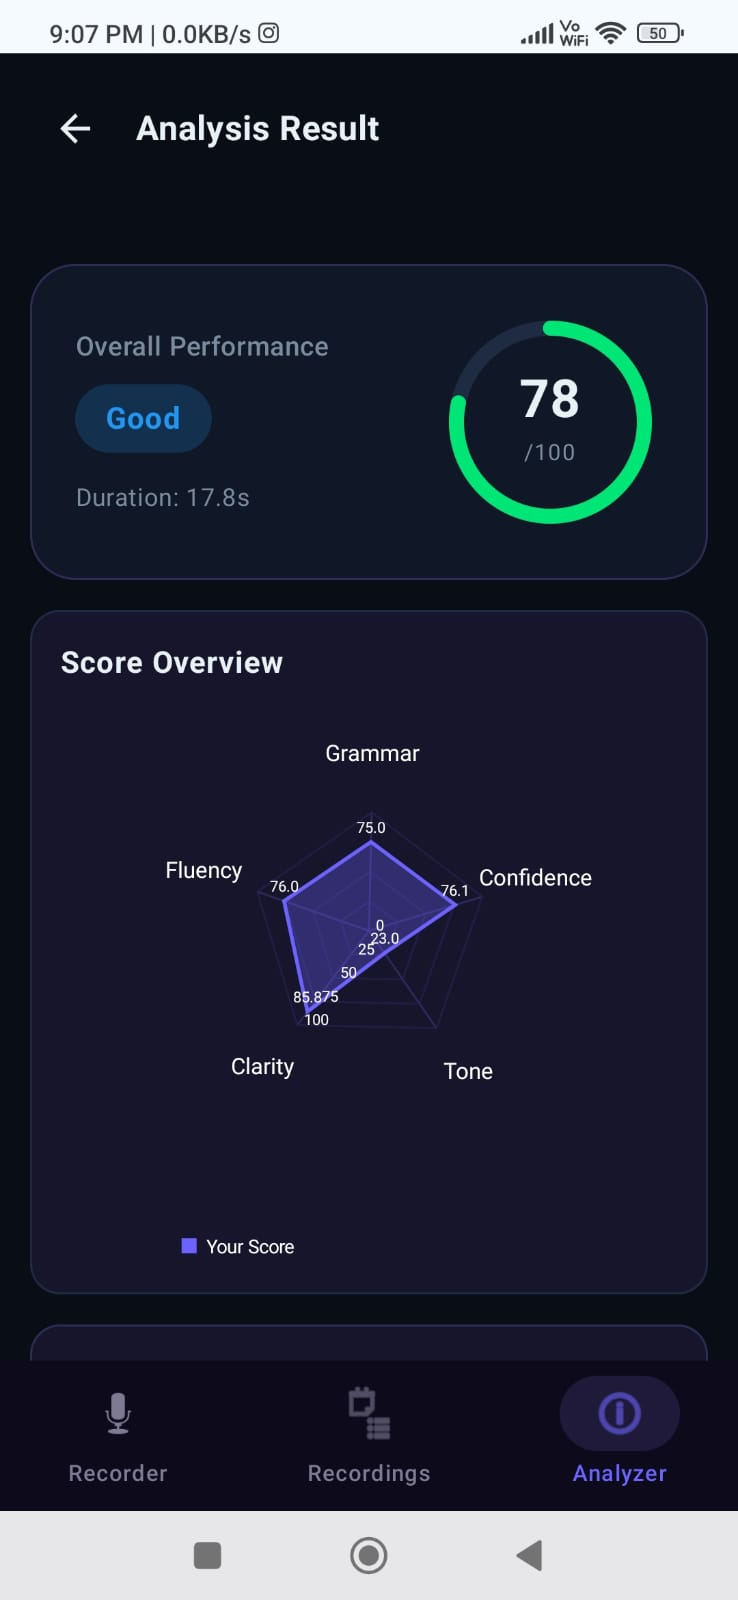
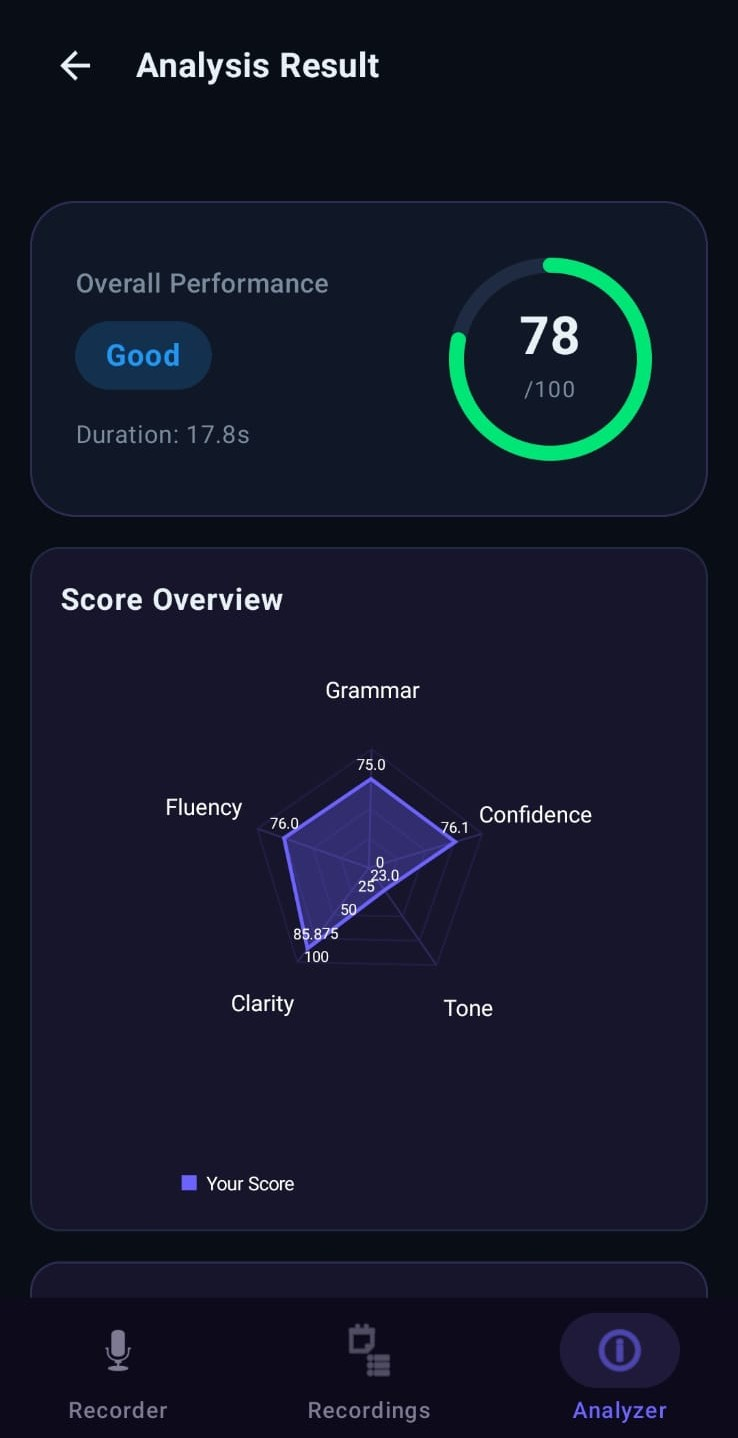
Update screenshots layout

diff --git a/README.md b/README.md
@@ -13,16 +13,16 @@ VoiceAnalyzer is an AI-powered Android application built with **Kotlin** and **J
 - 📝 Automatic speech-to-text transcription
 - 💾 Offline history with Room database
 
-
 ## 📱 Screenshots
 
 <p align="center">
-  <img src="ScreenShot/Recording_Screen.jpeg" width="200" />
-  <img src="ScreenShot/Audio_player.jpeg" width="200" />
-  <img src="ScreenShot/Analyzer_Screen1.jpeg" width="200" />
-  <img src="ScreenShot/Analyzer_Screen2.jpeg" width="200" />
+  <img src="ScreenShot/Recording_Screen.jpeg" width="250" />
+  <img src="ScreenShot/Audio_player.jpeg" width="250" />
 </p>
-
+<p align="center">
+  <img src="ScreenShot/Analyzer_Screen1.jpeg" width="250" />
+  <img src="ScreenShot/Analyzer_Screen2.jpeg" width="250" />
+</p>
 ---
 
 ## ✨ Features
@@ -43,7 +43,8 @@ Sends recorded audio to a cloud microservice (`/analyze` endpoint) to generate a
 *   **Voice Overview Radar Chart:** Multi-dimensional visualization of **Clarity, Fluency, Grammar, Confidence, and Tone** (built with `MPAndroidChart`).
 *   **Emotional Tone Classification:** Analyzes voice characteristics to classify tone (e.g., *Confident, Enthusiastic, Hesitant, Monotone, Nervous, Neutral*) and provides suggestions for improvement.
 *   **Speech Metrics Breakdown:** Measures pace (Words Per Minute), counts filler words (*um, uh, like...*), and tracks silent pauses.
-*   **Audio Transcription:** Automated Speech-to-Text transcription card with a one-tap copy button.
+*   **Speech-to-Text:** Whisper (small) model, self-hosted on Google Cloud for audio transcription.
+
 
 ### 4. 🗄 Offline Cache & History
 *   **Room Database integration:** Automatically saves analysis results locally.
@@ -59,6 +60,7 @@ VoiceAnalyzer is engineered following modern Android architecture recommendation
 *   **Network Client:** Retrofit 2 + Gson Converter + OkHttp (Supports multipart audio uploads and long-running analysis requests).
 *   **Data Flow:** Kotlin Coroutines & StateFlow (Ensures reactive UI updates).
 *   **Charts & Visuals:** `MPAndroidChart` (Interoperable Radar Chart) + Custom Drawing (`Canvas`).
+*   **Speech-to-Text:** OpenAI Whisper (small model) for audio transcription.
 
 ---
 
